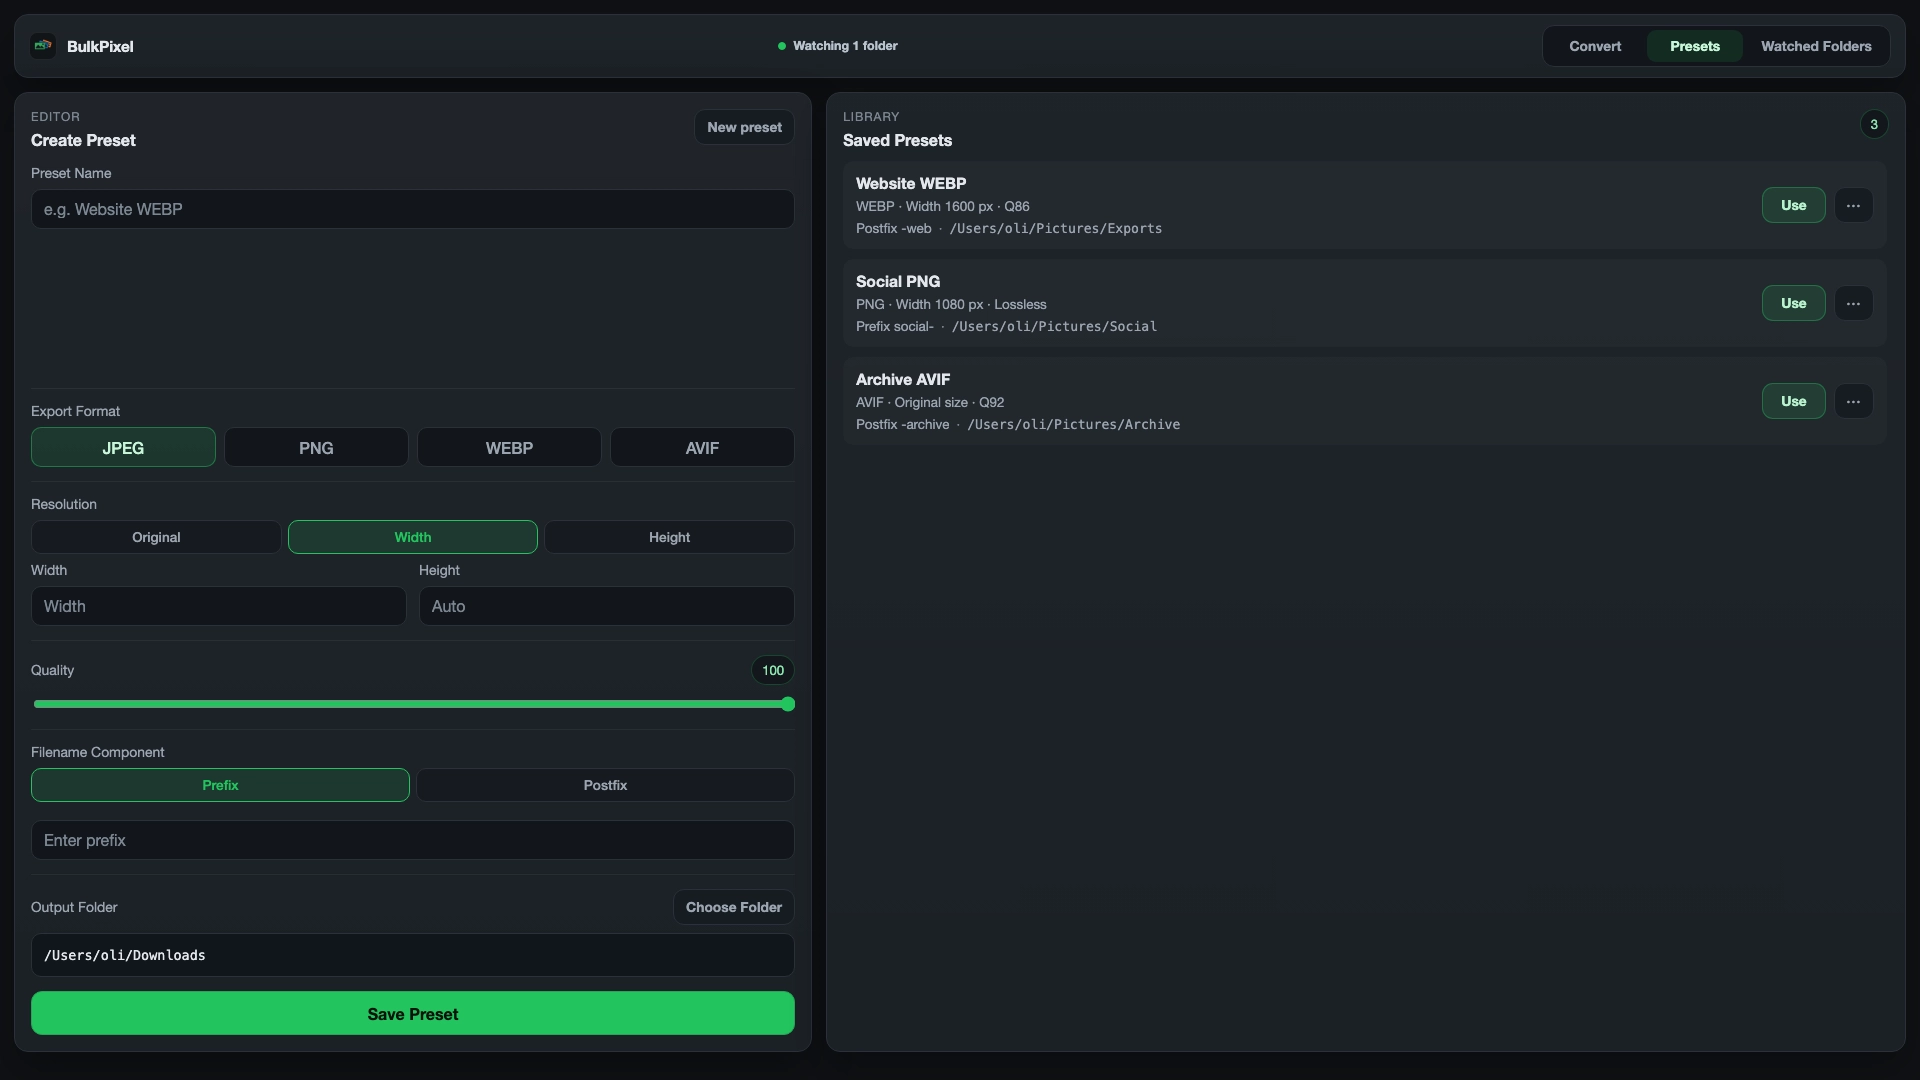
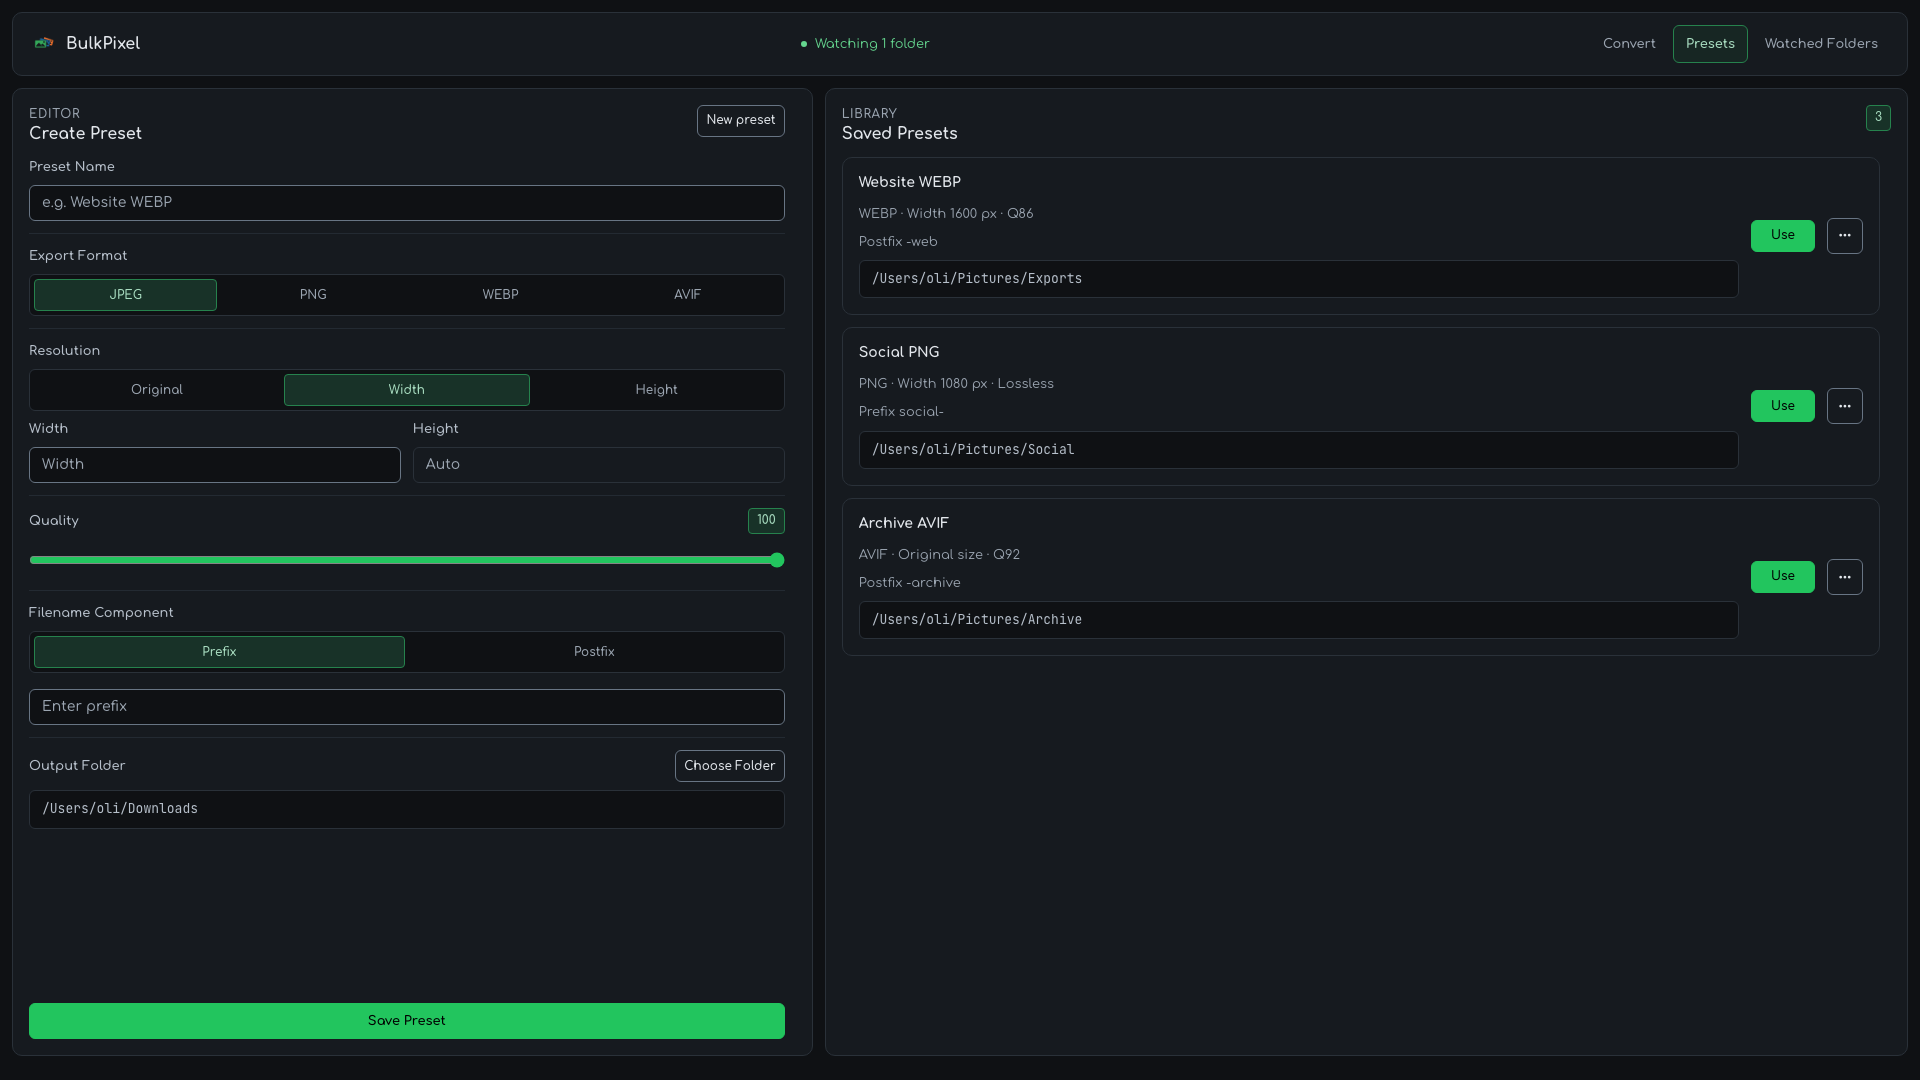
working on v3.1.3

diff --git a/src/ui.js b/src/ui.js
@@ -13,6 +13,7 @@ import { initDropdowns } from './vendor/oj-designsystem/index.js';
 
 const presetDropdownCleanups = new WeakMap();
 const presetListSnapshots = new WeakMap();
+const presetPickerSnapshots = new WeakMap();
 
 export function renderApp(state, elements) {
     renderBrand(elements);
@@ -237,15 +238,25 @@ function renderMagicDirectoryList(state, elements) {
 
 function renderPresetPicker(state, elements) {
     const selectedValue = buildPresetSelectValue(state);
-    const options = [
-        buildOption('custom', 'Custom'),
-        buildOption('default', 'Default'),
-        ...state.presets.map(preset => buildOption(String(preset.id), preset.name)),
-    ];
+    const isDisabled = state.isProcessing || state.presetsLoading;
+    if (presetPickerSnapshots.get(elements.presetSelectMenu) !== state.presets) {
+        elements.presetSelectMenu.replaceChildren(
+            buildPresetPickerItem('custom', 'Custom'),
+            buildPresetPickerItem('default', 'Default'),
+            ...state.presets.map(preset => buildPresetPickerItem(String(preset.id), preset.name)),
+        );
+        presetPickerSnapshots.set(elements.presetSelectMenu, state.presets);
+    }
 
-    elements.presetSelect.replaceChildren(...options);
-    elements.presetSelect.value = selectedValue;
-    elements.presetSelect.disabled = state.isProcessing || state.presetsLoading;
+    for (const item of elements.presetSelectMenu.children) {
+        const isSelected = item.dataset.ojValue === selectedValue;
+        item.setAttribute('aria-checked', String(isSelected));
+        item.disabled = isDisabled;
+        if (isSelected) {
+            elements.presetSelectLabel.textContent = item.textContent;
+        }
+    }
+    elements.presetSelectTrigger.disabled = isDisabled;
 }
 
 function renderPresetForm(state, elements) {
@@ -566,11 +577,16 @@ function renderPreview(state, elements) {
     );
 }
 
-function buildOption(value, label) {
-    const option = document.createElement('option');
-    option.value = value;
-    option.textContent = label;
-    return option;
+function buildPresetPickerItem(value, label) {
+    const item = document.createElement('button');
+    item.className = 'oj-menu-item';
+    item.type = 'button';
+    item.dataset.ojValue = value;
+    item.setAttribute('role', 'menuitemradio');
+    item.setAttribute('aria-checked', 'false');
+    item.tabIndex = -1;
+    item.textContent = label;
+    return item;
 }
 
 function buildPresetSelectValue(state) {
@@ -612,12 +628,7 @@ function buildPresetCard(preset) {
     const details = document.createElement('div');
     details.className = 'preset-card-details';
 
-    const separator = document.createElement('span');
-    separator.className = 'preset-card-detail-separator';
-    separator.setAttribute('aria-hidden', 'true');
-    separator.textContent = '·';
-
-    details.append(filename, separator, output);
+    details.append(filename, output);
     body.append(name, summary, details);
 
     const actions = document.createElement('div');

diff --git a/src/index.html b/src/index.html
@@ -107,12 +107,32 @@
                         </div>
                     </div>
 
-                    <label class="preset-picker settings-preset" for="preset-select">
-                        <span class="oj-label">Preset</span>
-                        <select id="preset-select" class="oj-select preset-select" aria-label="Conversion preset">
-                            <option value="custom">Custom</option>
-                        </select>
-                    </label>
+                    <div class="preset-picker settings-preset">
+                        <span id="preset-picker-label" class="oj-label">Preset</span>
+                        <div id="preset-dropdown" class="oj-dropdown preset-dropdown" data-oj-dropdown>
+                            <button
+                                id="preset-select"
+                                class="oj-button oj-button-secondary preset-select"
+                                type="button"
+                                data-oj-dropdown-trigger
+                                aria-labelledby="preset-picker-label preset-select-label"
+                                aria-haspopup="menu"
+                                aria-expanded="false"
+                                aria-controls="preset-select-menu"
+                            >
+                                <span id="preset-select-label" class="oj-truncate">Custom</span>
+                                <i class="fa-solid fa-chevron-down" aria-hidden="true"></i>
+                            </button>
+                            <div
+                                id="preset-select-menu"
+                                class="oj-menu preset-select-menu"
+                                data-oj-dropdown-menu
+                                role="menu"
+                                aria-labelledby="preset-picker-label"
+                                hidden
+                            ></div>
+                        </div>
+                    </div>
 
                     <div class="settings-stack">
                         <div class="field-group">
@@ -712,7 +732,6 @@
                                     JPEG 2000
                                 </button>
                             </div>
-                            <p class="oj-helper">Select one or more formats. Files in subfolders are ignored.</p>
                         </div>
 
                         <div class="field-group magic-presets-field">
@@ -726,7 +745,6 @@
                                 <label id="magic-enabled-label" class="oj-label" for="magic-enabled-button">
                                     Enable this rule
                                 </label>
-                                <p class="oj-helper">Disabled rules remain saved but do not process files.</p>
                             </div>
                             <label class="oj-switch">
                                 <input

diff --git a/src/main.js b/src/main.js
@@ -9,7 +9,7 @@ import {
     sanitizeNumberInput,
 } from './formatters.js';
 import { renderApp } from './ui.js';
-import { closeDialog, confirmDialog, initDialogs, openDialog } from './vendor/oj-designsystem/index.js';
+import { closeDialog, confirmDialog, initDialogs, initDropdowns, openDialog } from './vendor/oj-designsystem/index.js';
 
 const { invoke } = window.__TAURI__.core;
 const dialogApi = window.__TAURI__.dialog;
@@ -82,6 +82,8 @@ window.addEventListener('DOMContentLoaded', async () => {
     window.addEventListener('pagehide', cleanupDialogs, { once: true });
     bindEvents();
     render();
+    const cleanupPresetDropdown = initDropdowns(elements.presetDropdown);
+    window.addEventListener('pagehide', cleanupPresetDropdown, { once: true });
     await hydrateAppVersion();
     await bindOpenedFiles();
     await hydrateDefaultOutputDirectory();
@@ -126,7 +128,10 @@ function cacheElements() {
     elements.dropzoneTitle = document.querySelector('#dropzone-title');
     elements.imagesView = document.querySelector('#images-view');
     elements.loadedDropOverlay = document.querySelector('#loaded-drop-overlay');
-    elements.presetSelect = document.querySelector('#preset-select');
+    elements.presetDropdown = document.querySelector('#preset-dropdown');
+    elements.presetSelectTrigger = document.querySelector('#preset-select');
+    elements.presetSelectLabel = document.querySelector('#preset-select-label');
+    elements.presetSelectMenu = document.querySelector('#preset-select-menu');
     elements.formatOptions = [...document.querySelectorAll('#format-toggle .format-option')];
     elements.resizeModeOptions = [...document.querySelectorAll('#resize-mode-toggle .toggle-button')];
     elements.widthInput = document.querySelector('#width-input');
@@ -247,8 +252,8 @@ function bindEvents() {
         });
     });
 
-    elements.presetSelect.addEventListener('change', event => {
-        applyPresetSelection(event.target.value);
+    elements.presetDropdown.addEventListener('oj:select', event => {
+        queueMicrotask(() => applyPresetSelection(event.detail.value));
     });
 
     elements.resizeModeOptions.forEach(button => {

diff --git a/tests/screenshots.test.js b/tests/screenshots.test.js
@@ -1,11 +1,14 @@
 import assert from 'node:assert/strict';
 import fs from 'node:fs';
+import os from 'node:os';
 import path from 'node:path';
 import test from 'node:test';
 
 import {
     buildFixtureData,
+    clearMockupImages,
     FIXTURE_NAMES,
+    SCREENSHOT_DIR,
     SCREENSHOT_SPECS,
 } from '../scripts/screenshots.mjs';
 
@@ -35,12 +38,25 @@ test('defines exactly the requested screenshot outputs', () => {
     assert.deepEqual(
         SCREENSHOT_SPECS.map(({ filename, format }) => ({ filename, format })),
         [
-            { filename: 'bulkpixel.png', format: 'png' },
-            { filename: 'bulkpixel_empty.png', format: 'png' },
-            { filename: 'presets.png', format: 'png' },
-            { filename: 'watched_folders_directory.png', format: 'png' },
-            { filename: 'statistics.png', format: 'png' },
-            { filename: 'image_inspector.png', format: 'png' },
+            { filename: 'bulkpixel.webp', format: 'webp' },
+            { filename: 'bulkpixel_empty.webp', format: 'webp' },
+            { filename: 'presets.webp', format: 'webp' },
+            { filename: 'watched_folders_directory.webp', format: 'webp' },
+            { filename: 'statistics.webp', format: 'webp' },
+            { filename: 'image_inspector.webp', format: 'webp' },
         ],
     );
+    assert.equal(SCREENSHOT_DIR, path.resolve('src/assets/mockups'));
+});
+
+test('clears previous mockup images before generation while preserving other files', async t => {
+    const directory = await fs.promises.mkdtemp(path.join(os.tmpdir(), 'bulkpixel-mockups-test-'));
+    t.after(() => fs.promises.rm(directory, { recursive: true, force: true }));
+    for (const filename of ['old.png', 'old.webp', 'old.JPEG', 'old.svg', 'README.md']) {
+        await fs.promises.writeFile(path.join(directory, filename), 'fixture');
+    }
+
+    await clearMockupImages(directory);
+
+    assert.deepEqual(await fs.promises.readdir(directory), ['README.md']);
 });

diff --git a/src/styles.css b/src/styles.css
@@ -185,6 +185,26 @@ body {
     gap: var(--oj-space-2);
 }
 
+.preset-dropdown,
+.preset-select {
+    width: 100%;
+    min-width: 0;
+}
+
+.preset-select {
+    justify-content: space-between;
+    text-align: left;
+}
+
+.preset-select-menu {
+    min-width: min(320px, calc(100vw - var(--oj-space-4)));
+}
+
+.preset-select-menu .oj-menu-item[aria-checked='true'] {
+    background: var(--oj-accent-soft);
+    color: var(--oj-accent-text);
+}
+
 .settings-preset {
     margin-bottom: var(--oj-space-1);
 }
@@ -653,6 +673,20 @@ body {
 
 .preset-library-card {
     position: relative;
+    padding: var(--oj-space-4);
+}
+
+.preset-library-panel .preset-list {
+    gap: var(--oj-space-3);
+}
+
+.preset-library-card .preset-card-body {
+    display: grid;
+    gap: var(--oj-space-2);
+}
+
+.preset-library-card p {
+    margin: 0;
 }
 
 .preset-card-body {
@@ -664,24 +698,17 @@ body {
 }
 
 .preset-card-details {
-    display: flex;
-    align-items: baseline;
+    display: grid;
     gap: var(--oj-space-2);
     min-width: 0;
-    margin-top: var(--oj-space-1);
 }
 
 .preset-card-details .preset-card-filename {
-    flex: 0 1 auto;
     min-width: 0;
     margin: 0;
     overflow: hidden;
     text-overflow: ellipsis;
     white-space: nowrap;
-}
-
-.preset-card-detail-separator {
-    flex: 0 0 auto;
 }
 
 .preset-card-path {

diff --git a/README.md b/README.md
@@ -103,7 +103,7 @@ npm run dev
 
 Node.js 22.12 or newer is required. Installation and Tauri's dev/build hooks run `npm run prepare:ui`, which copies the installed design system into the ignored `src/vendor/oj-designsystem/` directory. CSS, JavaScript, Comfortaa/JetBrains Mono fonts, Font Awesome icons, and license notices are bundled locally; no network access is needed by the app. Do not edit the generated files. Run `npm run prepare:ui` after changing the dependency when serving `src/` directly.
 
-Run `npm test` for frontend checks and `npm run screenshots` to capture all six views with the Tauri mock.
+Run `npm test` for frontend checks and `npm run screenshots` to capture all six views with the Tauri mock. Screenshot generation first deletes the existing images in `src/assets/mockups/`, then writes the new screenshots there as WebP files.
 
 ## macOS Open With test cases
 

diff --git a/docs/changelog.md b/docs/changelog.md
@@ -1,3 +1,7 @@
+# 3.1.3
+
+- some minor fixes to ui
+
 # 3.1.2
 
 - moving to https://github.com/oliverjessner/oj-designsystem
